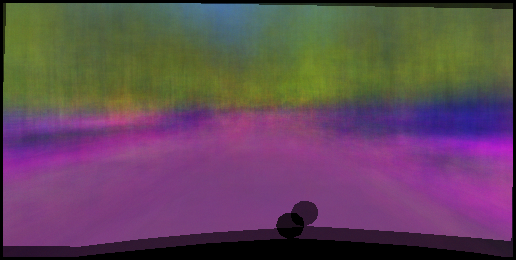
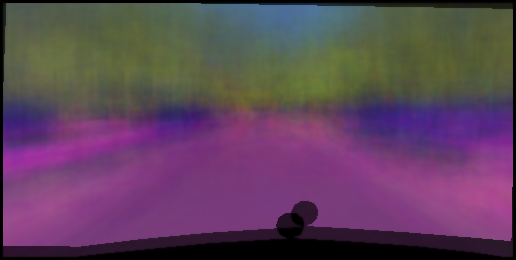
more gen maps

diff --git a/generate_map.py b/generate_map.py
@@ -6,6 +6,7 @@ from torchvision.utils import save_image
 from torchvision import transforms
 import os
 from skimage import io
+import cv2
 
 import numpy as np
 import IPython
@@ -35,6 +36,12 @@ def generate_encoding(avg):
     for i in idx:
         encoding[0,i] = encoding[0, i] + np.random.rand()
     return torch.from_numpy(encoding)
+
+def post_processing(img_name):
+    img = cv2.imread(img_name)
+    blur = cv2.bilateralFilter(img, 5, 100, 100)
+    cv2.imwrite(img_name, blur)
+    return blur
 
 class VAE(nn.Module):
     def __init__(self):
@@ -94,4 +101,7 @@ if __name__ == '__main__':
 
         # form image
         img = to_img(map.cpu().data)
-        save_image(img, "generated_maps/gen_map{}.png".format(i))
+        img_name = "generated_maps/gen_map{}.png".format(i)
+        save_image(img, img_name)
+ 
+        post_processing(img_name)
